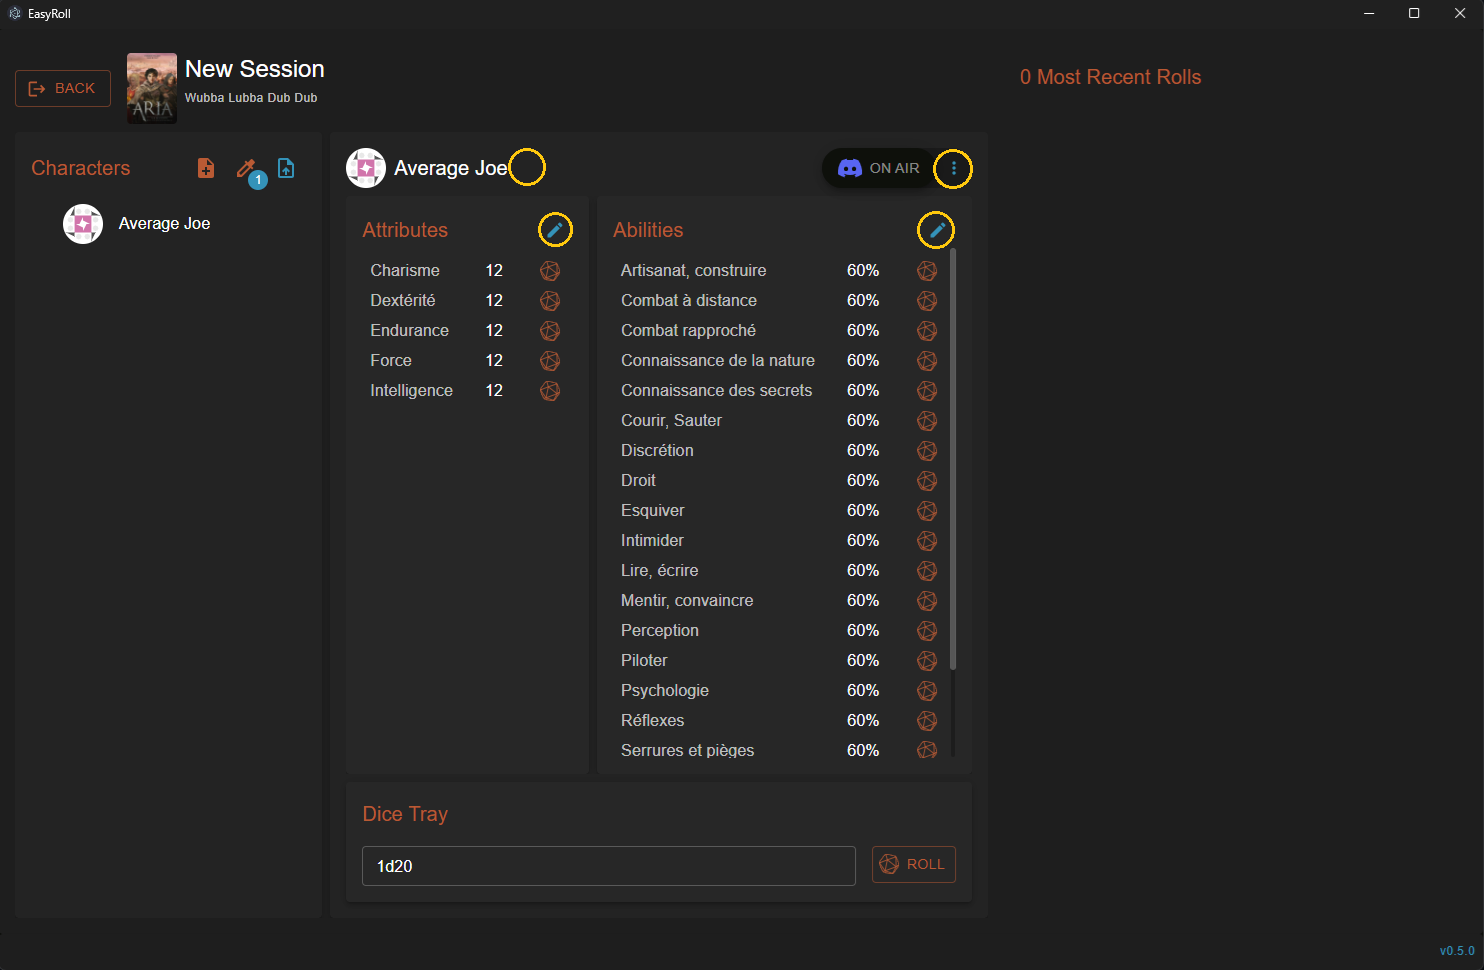
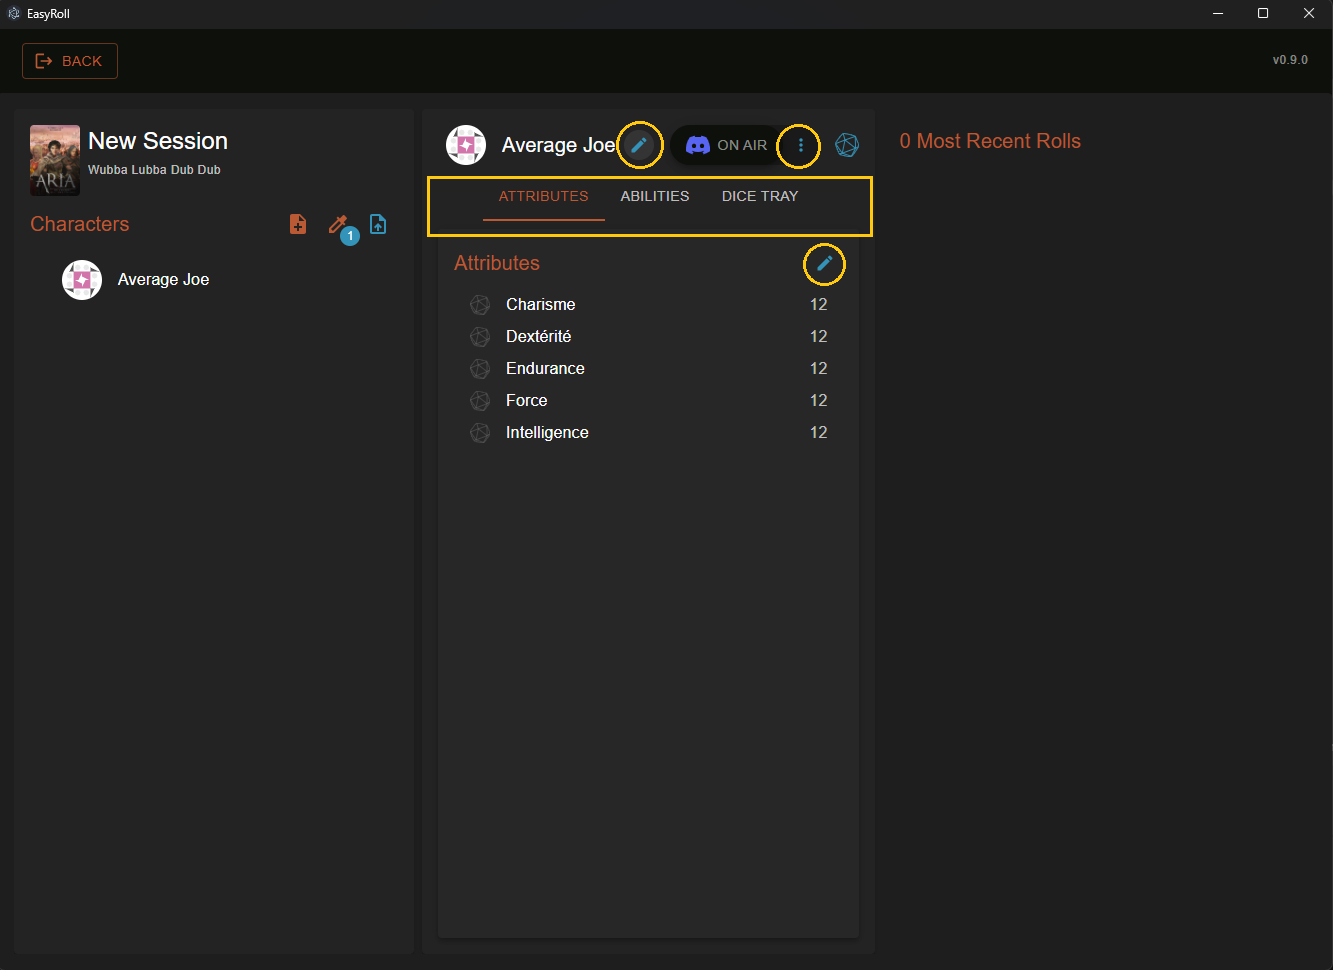
mise à jour du readme suite aux dernières évolutions

diff --git a/README.md b/README.md
@@ -18,13 +18,15 @@ $ xattr -c <path/to/application.app>
 
 ### @ Users
 
-<img src='./EasyRoll_UI_Start.png' width=600>
-
 At the moment, three games are "supported":  
 <img src='./public/images/Aria_Cover.jpg' width=75> <img src='./public/images/Reve-de-Dragon_Cover.jpg' width=75> <img src='./public/images/BaSIC_Cover.jpg' width=75>
 
 You should first create a new `Session` for the game relevant to you.  
-Once a new session has been created, you can use it and add some characters to it:  
+<img src='./EasyRoll_UI_Start.png' width=600>
+
+---
+
+Once a new session has been created, you can select it and add some characters to it:  
 <img src='./EasyRoll_UI_AddCharacter.png' width=600>
 
 There is 3 options:
@@ -34,15 +36,29 @@ _(or if you want to reuse a character from another session)_
 3. import a character from a JSON file  
 _(probably not needed anymore, kinda deprecated..)_
 
+---
+
 Once a character has been added, select it and click one of the `pen` or `more` icons to edit its:  
 * name
 * attributes
 * abilities
+* dice tray
 * discord configuration
 
 <img src='./EasyRoll_UI_EditCharacter.png' width=600>
 
+NB: at the moment, each character has its own discord configuration.
+
+---
+
+On the character page, you also have access to a quick / custom roll via the dice shorcut:
+<img src='./EasyRoll_UI_QuickRoll.png' width=600>
+
+---
+
 NB: at the moment, it is not possible to delete a session or character.
+
+---
 
 ### Links
 
